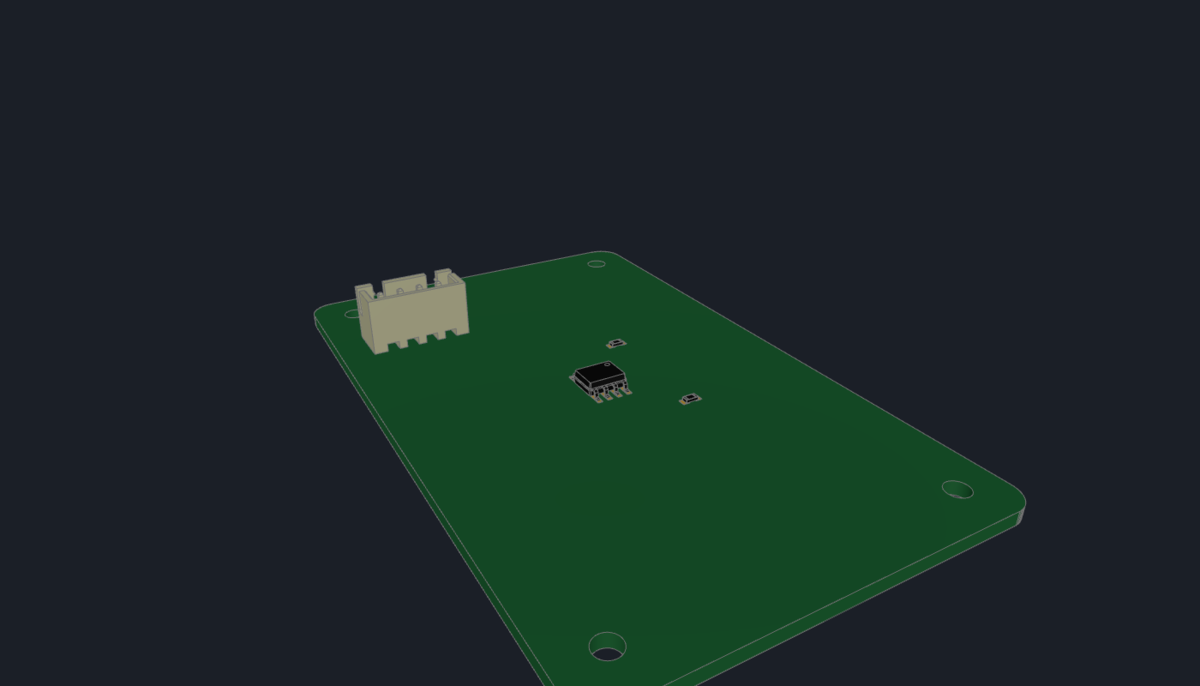
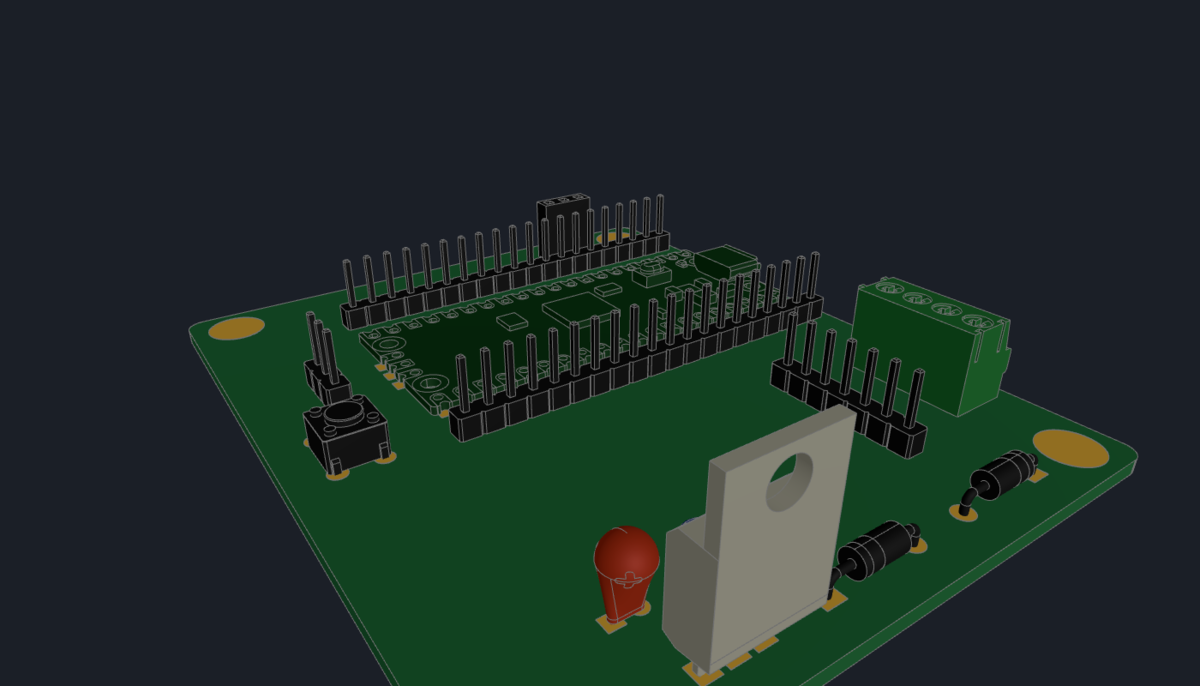
README boards example: a real MIT Pico board (stepper playground) re-expressed through cadview.pcb; write_kicad(schematic=False)

Changed region(s): [[0.1542, 0.2755, 0.9558, 1.0]]

diff --git a/examples/stepper_board.py b/examples/stepper_board.py
@@ -1,0 +1,126 @@
+"""The 12 V stepper playground — a real Pico board (John McAleely, MIT), laid out
+again through cadview.pcb: the same 82 x 68 mm outline, the same seventeen
+KiCad library footprints at the same places, the same 41 nets on the same pads,
+written back out as a KiCad project + JLCPCB files and shown with the parts'
+STEP models on the board.
+
+    python examples/stepper_board.py        -> http://127.0.0.1:3941/stepper-board
+
+Source: https://github.com/jhmcaleely/stepper-playground (12v-pico/12v-pico.kicad_pcb,
+commit d3c5cc9), MIT licence, (c) 2022 John McAleely — the placement and netlist below are
+that board's, re-expressed; copper routing is not reproduced (route it in KiCad or with
+tools/pcb/export.mjs). Needs `pip install cadview[pcb]` and KiCad's libraries on disk.
+"""
+import os
+from pathlib import Path
+
+from build123d import Pos, RectangleRounded
+
+from cadview.pcb import Board, kicad_footprint
+
+os.environ.setdefault("CADVIEW_SCENE", "stepper-board")
+
+W, H = 82.0, 68.0                  # the board's Edge.Cuts rectangle, lower-left at (0, 0)
+
+# ref, KiCad footprint (library, name), place (x, y) mm from the lower-left corner, rotation, value
+PARTS = [
+    ('A1', ('Module', 'RaspberryPi_Pico_SMD_HandSolder'), (27.06, 41.53), 0, 'RaspberryPi_Pico'),
+    ('C1', ('Capacitor_THT', 'CP_Radial_D4.0mm_P2.00mm'), (70.5, 24.0), 270, '100uF, 25V'),
+    ('C2', ('Capacitor_THT', 'CP_Radial_Tantal_D4.5mm_P2.50mm'), (70.5, 14.5), 90, '4.7uF'),
+    ('D1', ('Diode_THT', 'D_DO-41_SOD81_P10.16mm_Horizontal'), (77.5, 28.92), 90, '1N4002'),
+    ('D2', ('Diode_THT', 'D_DO-41_SOD81_P10.16mm_Horizontal'), (77.5, 56.08), 270, '1N5817'),
+    ('J1', ('TerminalBlock_Phoenix', 'TerminalBlock_Phoenix_PT-1,5-4-3.5-H_1x04_P3.50mm_Horizontal'), (66.25, 62.29), 180, 'MERG 12v CBUS'),
+    ('J2', ('Connector_PinHeader_2.54mm', 'PinHeader_1x07_P2.54mm_Vertical'), (68.58, 50.0), 270, 'Adafruit CAN Pal'),
+    ('J3', ('Connector_PinHeader_2.54mm', 'PinHeader_1x03_P2.54mm_Vertical'), (24.52, 9.02), 90, 'DEBUG'),
+    ('J4', ('Connector_PinSocket_2.54mm', 'PinSocket_1x03_P2.54mm_Vertical'), (5.5, 55.0), 0, 'UART0'),
+    ('J5', ('Connector_PinHeader_2.54mm', 'PinHeader_1x20_P2.54mm_Vertical'), (11.82, 65.66), 0, 'Pico LHS'),
+    ('J6', ('Connector_PinHeader_2.54mm', 'PinHeader_1x20_P2.54mm_Vertical'), (42.3, 65.66), 0, 'Pico RHS'),
+    ('SW1', ('Button_Switch_THT', 'SW_PUSH_6mm'), (41.75, 4.75), 180, 'RESET'),
+    ('U1', ('Package_TO_SOT_THT', 'TO-220-3_Vertical'), (77.5, 22.0), 270, 'LM7805_TO220'),
+    ('H1', ('MountingHole', 'MountingHole_3.2mm_M3_Pad'), (4.46, 63.0), 0, 'MountingHole_3.2mm_M3_Pad'),
+    ('H2', ('MountingHole', 'MountingHole_3.2mm_M3_Pad'), (4.5, 5.0), 0, 'MountingHole_3.2mm_M3_Pad'),
+    ('H3', ('MountingHole', 'MountingHole_3.2mm_M3_Pad'), (77.5, 5.0), 0, 'MountingHole_3.2mm_M3_Pad'),
+    ('H4', ('MountingHole', 'MountingHole_3.2mm_M3_Pad'), (77.5, 63.0), 0, 'MountingHole_3.2mm_M3_Pad'),
+]
+# schematic symbols per footprint (the Pico has none in KiCad's library, so the
+# schematic is skipped below — the board, netlist and JLC files do not need it)
+SYMBOLS = {
+    'Capacitor_THT:CP_Radial_D4.0mm_P2.00mm': ('Device', 'C_Polarized'),
+    'Capacitor_THT:CP_Radial_Tantal_D4.5mm_P2.50mm': ('Device', 'C_Polarized'),
+    'Diode_THT:D_DO-41_SOD81_P10.16mm_Horizontal': ('Device', 'D'),
+    'TerminalBlock_Phoenix:TerminalBlock_Phoenix_PT-1,5-4-3.5-H_1x04_P3.50mm_Horizontal': ('Connector_Generic', 'Conn_01x04'),
+    'Connector_PinHeader_2.54mm:PinHeader_1x07_P2.54mm_Vertical': ('Connector_Generic', 'Conn_01x07'),
+    'Connector_PinHeader_2.54mm:PinHeader_1x03_P2.54mm_Vertical': ('Connector_Generic', 'Conn_01x03'),
+    'Connector_PinSocket_2.54mm:PinSocket_1x03_P2.54mm_Vertical': ('Connector_Generic', 'Conn_01x03'),
+    'Connector_PinHeader_2.54mm:PinHeader_1x20_P2.54mm_Vertical': ('Connector_Generic', 'Conn_01x20'),
+    'MountingHole:MountingHole_3.2mm_M3_Pad': ('Mechanical', 'MountingHole_Pad'),
+    'Button_Switch_THT:SW_PUSH_6mm': ('Switch', 'SW_Push'),
+    'Package_TO_SOT_THT:TO-220-3_Vertical': ('Regulator_Linear', 'LM7805_TO220'),
+}
+# net -> (ref, pad) — the original board's netlist
+NETS = {
+    'GND': [('A1', '13'), ('A1', '18'), ('A1', '23'), ('A1', '28'), ('A1', '3'), ('A1', '38'), ('A1', '8'), ('A1', 'D2'), ('C1', '2'), ('C2', '2'), ('J1', '4'), ('J2', '2'), ('J3', '2'), ('J4', '2'), ('J5', '13'), ('J5', '18'), ('J5', '3'), ('J5', '8'), ('J6', '13'), ('J6', '18'), ('J6', '3'), ('SW1', '1'), ('U1', '2')],
+    'Net-(A1-3V3)': [('A1', '36'), ('J2', '1'), ('J6', '5')],
+    'Net-(A1-3V3_EN)': [('A1', '37'), ('J6', '4')],
+    'Net-(A1-ADC_VREF)': [('A1', '35'), ('J6', '6')],
+    'Net-(A1-AGND)': [('A1', '33'), ('J6', '8')],
+    'Net-(A1-GPIO0)': [('A1', '1'), ('J4', '3'), ('J5', '1')],
+    'Net-(A1-GPIO1)': [('A1', '2'), ('J4', '1'), ('J5', '2')],
+    'Net-(A1-GPIO10)': [('A1', '14'), ('J5', '14')],
+    'Net-(A1-GPIO11)': [('A1', '15'), ('J5', '15')],
+    'Net-(A1-GPIO12)': [('A1', '16'), ('J5', '16')],
+    'Net-(A1-GPIO13)': [('A1', '17'), ('J5', '17')],
+    'Net-(A1-GPIO14)': [('A1', '19'), ('J5', '19')],
+    'Net-(A1-GPIO15)': [('A1', '20'), ('J5', '20')],
+    'Net-(A1-GPIO16)': [('A1', '21'), ('J6', '20')],
+    'Net-(A1-GPIO17)': [('A1', '22'), ('J6', '19')],
+    'Net-(A1-GPIO18)': [('A1', '24'), ('J6', '17')],
+    'Net-(A1-GPIO19)': [('A1', '25'), ('J6', '16')],
+    'Net-(A1-GPIO2)': [('A1', '4'), ('J2', '3'), ('J5', '4')],
+    'Net-(A1-GPIO20)': [('A1', '26'), ('J6', '15')],
+    'Net-(A1-GPIO21)': [('A1', '27'), ('J6', '14')],
+    'Net-(A1-GPIO22)': [('A1', '29'), ('J6', '12')],
+    'Net-(A1-GPIO26_ADC0)': [('A1', '31'), ('J6', '10')],
+    'Net-(A1-GPIO27_ADC1)': [('A1', '32'), ('J6', '9')],
+    'Net-(A1-GPIO28_ADC2)': [('A1', '34'), ('J6', '7')],
+    'Net-(A1-GPIO3)': [('A1', '5'), ('J2', '4'), ('J5', '5')],
+    'Net-(A1-GPIO4)': [('A1', '6'), ('J2', '5'), ('J5', '6')],
+    'Net-(A1-GPIO5)': [('A1', '7'), ('J5', '7')],
+    'Net-(A1-GPIO6)': [('A1', '9'), ('J5', '9')],
+    'Net-(A1-GPIO7)': [('A1', '10'), ('J5', '10')],
+    'Net-(A1-GPIO8)': [('A1', '11'), ('J5', '11')],
+    'Net-(A1-GPIO9)': [('A1', '12'), ('J5', '12')],
+    'Net-(A1-RUN)': [('A1', '30'), ('J6', '11'), ('SW1', '2')],
+    'Net-(A1-SWCLK)': [('A1', 'D1'), ('J3', '1')],
+    'Net-(A1-SWDIO)': [('A1', 'D3'), ('J3', '3')],
+    'Net-(A1-VBUS)': [('A1', '40'), ('J6', '1')],
+    'Net-(A1-VSYS)': [('A1', '39'), ('D2', '1'), ('J6', '2')],
+    'Net-(D1-A)': [('D1', '2'), ('J1', '1')],
+    'Net-(D1-K)': [('C1', '1'), ('D1', '1'), ('U1', '1')],
+    'Net-(D2-A)': [('C2', '1'), ('D2', '2'), ('U1', '3')],
+    'Net-(J1-CANH)': [('J1', '3'), ('J2', '6')],
+    'Net-(J1-CANL)': [('J1', '2'), ('J2', '7')],
+}
+
+
+def build():
+    face = Pos(W / 2, H / 2, 0) * RectangleRounded(W, H, 2).faces()[0]
+    b = Board(face, thickness=1.6, name="stepper-playground", z=0)
+    for ref, (lib, name), at, rot, value in PARTS:
+        b.place(kicad_footprint(lib, name), ref, at, rot=rot, value=value, center_pads=False,
+                symbol=SYMBOLS.get(f"{lib}:{name}"))
+    for net, pins in NETS.items():
+        b.net(net, *pins)
+    b.pour("GND", "B.Cu")
+    return b
+
+
+if __name__ == "__main__":
+    from cadview import show
+    b = build()
+    out = Path("out/stepper-board")
+    out.mkdir(parents=True, exist_ok=True)
+    b.write_kicad(str(out), "stepper-playground", schematic=False)   # .kicad_pcb / .kicad_pro / .net
+    b.write_jlc(str(out))                                               # bom.csv / cpl.csv / bom_full.csv
+    print("wrote", sorted(p.name for p in out.iterdir()))
+    show(b.solid(), names=["stepper playground"], title="12 V stepper playground (Pico)")

diff --git a/cadview/pcb.py b/cadview/pcb.py
@@ -804,10 +804,15 @@ class Board:
         nets = [["net", ["code", Q(str(i + 1))], ["name", Q(n)]] + [["node", ["ref", Q(r)], ["pin", Q(pad)]] for r, pad in pins] for i, (n, pins) in enumerate(self.nets.items())]
         return _ser(["export", ["version", Q("E")], ["design", ["source", Q(f"{name}.py")], ["tool", Q("cadview.pcb")]], ["components"] + comps, ["nets"] + nets]) + "\n"
 
-    def write_kicad(self, outdir, name, traces=None, layout=None, pin_types=None):
-        """the KiCad project: .kicad_pcb, .kicad_sch (layout = schematic columns of refs), .kicad_pro, .net"""
+    def write_kicad(self, outdir, name, traces=None, layout=None, pin_types=None, schematic=True):
+        """the KiCad project: .kicad_pcb, .kicad_sch (layout = schematic columns of refs; schematic=False skips it, e.g. a
+        part with no library symbol), .kicad_pro, .net"""
         paths = []
-        for ext, txt in ((".kicad_pcb", self.kicad_pcb(traces)), (".kicad_sch", self.kicad_sch(name, layout, pin_types=pin_types)), (".kicad_pro", self.kicad_pro(name)), (".net", self.netlist(name))):
+        files = [(".kicad_pcb", lambda: self.kicad_pcb(traces))]
+        if schematic: files.append((".kicad_sch", lambda: self.kicad_sch(name, layout, pin_types=pin_types)))
+        files += [(".kicad_pro", lambda: self.kicad_pro(name)), (".net", lambda: self.netlist(name))]
+        for ext, make in files:
+            txt = make()
             p = os.path.join(outdir, name + ext)
             with open(p, "w") as f: f.write(txt)
             paths.append(p)

diff --git a/README.md b/README.md
@@ -111,22 +111,20 @@ any animation time — and the page the person is looking at never changes.
 
 ## Boards
 
-![a sensor board laid out from its enclosure, with KiCad's own footprints](docs/board.png)
+![a real Pico board (the 12 V stepper playground, MIT) laid out again through cadview.pcb and shown with its parts' STEP models](docs/board.png)
 
 ```python
 from cadview.pcb import Board, kicad_footprint
 
-b = Board(floor_face, thickness=1.6, z=8)          # outline + holes straight off a build123d Face
-b.hole_keepout(6)                                   # screw heads stay copper-free
-u1 = b.place(kicad_footprint("Package_SO", "SOIC-8_3.9x4.9mm_P1.27mm"), "U1", (0, 0),
-             value="MCP9808", lcsc="C64240", symbol=("Sensor_Temperature", "MCP9808_MSOP"))
-j1 = b.place(kicad_footprint("Connector_JST", "JST_XH_B4B-XH-A_1x04_P2.50mm_Vertical"), "J1", (-24, -14), rot=90,
-             symbol=("Connector_Generic", "Conn_01x04"))
-b.net("GND", ("U1", 4), ("J1", 1));  b.net("SDA", ("U1", 1), ("J1", 3))
+b = Board(outline_face, thickness=1.6)               # outline + holes straight off a build123d Face
+for ref, (lib, name), at, rot, value in PARTS:        # ("U1", ("Package_TO_SOT_THT", "TO-220-3_Vertical"), (77.5, 22), 270, "LM7805")
+    b.place(kicad_footprint(lib, name), ref, at, rot=rot, value=value)
+for net, pins in NETS.items():                        # "GND": [("A1", "3"), ("C1", "2"), ...]
+    b.net(net, *pins)
 b.pour("GND", "B.Cu")
-b.write_kicad("out", "sensor")                      # .kicad_pcb + .kicad_sch + .kicad_pro + netlist
-b.write_jlc("out")                                  # bom.csv + cpl.csv for JLCPCB assembly
-show(enclosure + b.solid())                         # the populated board back in the assembly
+b.write_kicad("out", "board")                         # .kicad_pcb + .kicad_sch + .kicad_pro + netlist
+b.write_jlc("out")                                    # bom.csv + cpl.csv for JLCPCB assembly
+show(enclosure + b.solid())                           # the populated board back in the assembly
 ```
 
 `cadview.pcb` lays a PCB out from the CAD instead of a schematic-first
@@ -139,12 +137,13 @@ edit by line and `kicad-cli` can check and export (`tools/pcb/kicad_export.sh`:
 DRC, ERC, Gerbers, drill, STEP), tscircuit Circuit JSON for its autorouter
 and exporters (`tools/pcb/export.mjs`), JLCPCB BOM + CPL, and `solid()` —
 the board with its parts' STEP models as build123d geometry, so it sits in
-the enclosure while you design both. `examples/board.py` is the picture
-above (DRC 0 errors, ERC 0 before routing). What it writes is proven
-against eighteen open-source KiCad boards re-expressed through it,
-Gerber for Gerber (`tests/pcb`). `pip install cadview[pcb]`; needs
-KiCad's footprint, symbol and 3D libraries (`KICAD_FOOTPRINTS`,
-`KICAD_SYMBOLS`, `KICAD_3DMODELS`).
+the enclosure while you design both. The picture is `examples/stepper_board.py`:
+John McAleely's [stepper playground](https://github.com/jhmcaleely/stepper-playground)
+(MIT) re-expressed as seventeen placements and 41 nets, written back out
+and shown. What the layer writes is proven against eighteen open-source
+KiCad boards re-expressed through it, Gerber for Gerber (`tests/pcb`).
+`pip install cadview[pcb]`; needs KiCad's footprint, symbol and 3D
+libraries (`KICAD_FOOTPRINTS`, `KICAD_SYMBOLS`, `KICAD_3DMODELS`).
 
 ## Review pages
 
